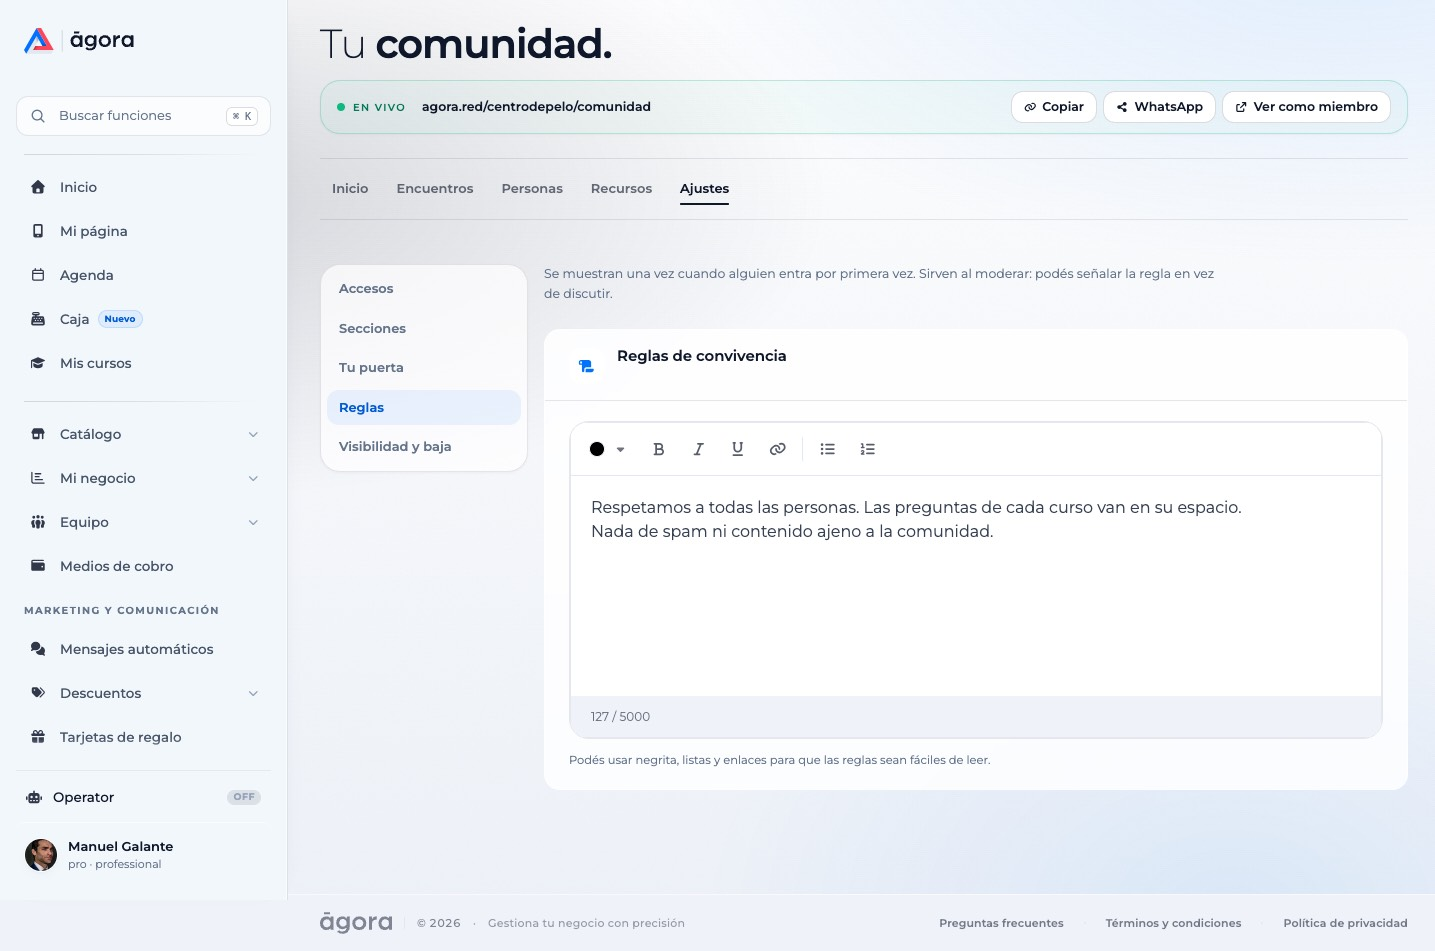
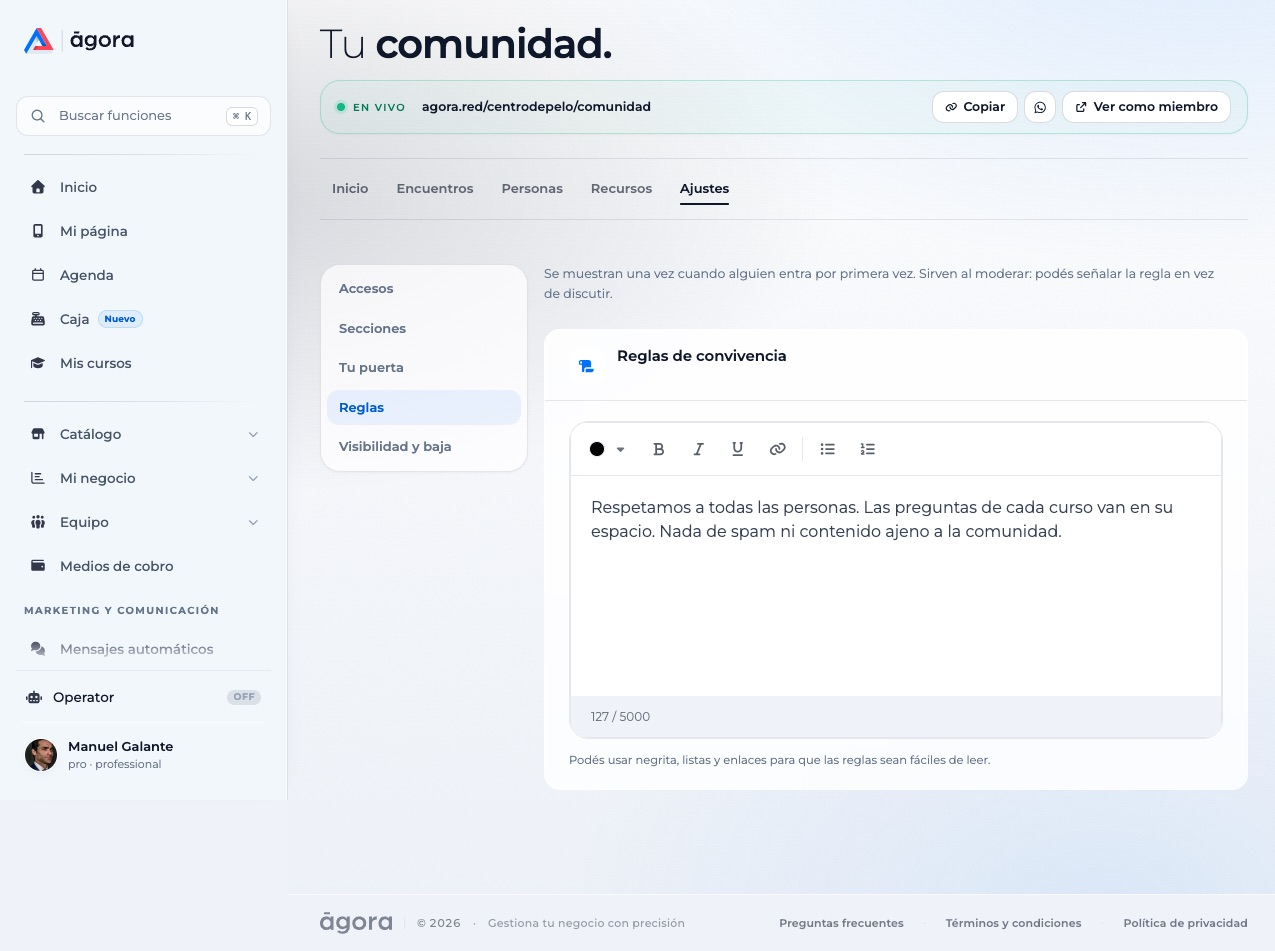
wiki: recorrido-comunidad — pasos 10-37 re-capturados íntegros tras el revamp del 18

diff --git a/recorrido-comunidad-2026-08/index.html b/recorrido-comunidad-2026-08/index.html
@@ -150,6 +150,7 @@ footer { padding: 30px 0 80px; color: var(--frost-muted); font-size: 12.5px; fon
       <span>14 · 08 → 18 · 08 · 2026</span>
       <span class="hot">miembro con el corredor · 18 · 08</span>
       <span class="hot">afinado + emails · 18 · 08</span>
+      <span class="hot">re-capturado íntegro tras el revamp · 18 · 08</span>
     </div>
   </section>
 
@@ -183,13 +184,13 @@ footer { padding: 30px 0 80px; color: var(--frost-muted); font-size: 12.5px; fon
 
 <section class="chapter"><p class="kicker">Capítulo 3 · En el panel</p><h2>El primer contenido</h2><p>El checklist guía las dos primeras piezas: una novedad de bienvenida con foto y una serie semanal de encuentros — con su primera excepción incluida.</p></section>
 
-<section class="step" id="paso-11"><div class="stephead"><span class="num">11</span><div><p class="kicker"><span class="lado panel">PANEL</span> Nueva publicación</p><h3>El composer, vacío</h3></div></div><div class="body"><p>«Escribir la primera» abre el composer a pantalla completa: <strong>Publicación o Anuncio</strong>, a quién le llega (toda tu comunidad o una sección), editor con formato, y adjuntos — hasta 4 imágenes y PDF.</p></div><figure><img src="assets/paso-11.jpg" alt=""><figcaption>Nueva publicación en cero: 0/5000 caracteres, 0/4 adjuntos, Publicar deshabilitado.</figcaption></figure></section>
+<section class="step" id="paso-11"><div class="stephead"><span class="num">11</span><div><p class="kicker"><span class="lado panel">PANEL</span> Nueva publicación</p><h3>El composer, vacío</h3></div></div><div class="body"><p>«Escribir la primera» abre el composer a pantalla completa. Los dos tipos ya no son botones mudos: <strong>tarjetas con la consecuencia escrita</strong> — Publicación (la conversación de todos los días) o Anuncio (destacado con chapa arriba del feed) — más a quién le llega, y un lienzo que integra editor, adjuntos y contador en una sola pieza.</p></div><figure><img src="assets/paso-11.jpg" alt=""><figcaption>Nueva publicación en cero: 0/5000 caracteres, 0/4 adjuntos, Publicar deshabilitado.</figcaption></figure></section>
 
 <section class="step" id="paso-12"><div class="stephead"><span class="num">12</span><div><p class="kicker"><span class="lado panel">PANEL</span> Nueva publicación</p><h3>La bienvenida, escrita y con foto</h3></div></div><div class="body"><p>Texto de bienvenida y una placa con la fórmula del día adjunta. El contador marca 282/5000, el adjunto 1/4, y <strong>Publicar se habilita</strong>.</p></div><figure><img src="assets/paso-12.jpg" alt=""><figcaption>El mismo composer, lleno: así se ve un post listo para salir.</figcaption></figure></section>
 
 <section class="step" id="paso-13"><div class="stephead"><span class="num">13</span><div><p class="kicker"><span class="lado panel">PANEL</span> Inicio</p><h3>Primera novedad publicada</h3></div></div><div class="body"><p>El post queda arriba con su placa — y el sistema toma nota: la métrica pasa a <strong>1 publicación</strong> y, con las primeras piezas hechas, la guía de primeros pasos se retira sola. Sobre la imagen aparece el marcador para guardarla en <strong>Recursos</strong>, y arriba del feed ya vive la tira del composer para la próxima novedad.</p></div><figure><img src="assets/paso-13.jpg" alt=""><figcaption>El Inicio después de publicar: la bienvenida con su fórmula, y el composer a un click.</figcaption></figure></section>
 
-<section class="step" id="paso-14"><div class="stephead"><span class="num">14</span><div><p class="kicker"><span class="lado panel">PANEL</span> Encuentros · Nuevo encuentro</p><h3>La serie semanal, en un form</h3></div></div><div class="body"><p>«Agendá el primer encuentro» abre el form: título, quién puede verlo, qué día, de 19:00 a 20:00, online con link de Meet y — la clave — <strong>se repite todas las semanas</strong>. Cupo opcional; hasta cuándo se repite, también.</p></div><figure><img src="assets/paso-14.jpg" alt=""><figcaption>Nuevo encuentro completo: «Consultas en vivo», jueves, semanal, con el link cargado.</figcaption></figure></section>
+<section class="step" id="paso-14"><div class="stephead"><span class="num">14</span><div><p class="kicker"><span class="lado panel">PANEL</span> Encuentros · Nuevo encuentro</p><h3>La serie semanal, a página completa</h3></div></div><div class="body"><p>«Agendá el primer encuentro» ya no abre un modal de 560px: toma el mismo lienzo del composer, con el form agrupado en <strong>Cuándo</strong> (día, horas, repetición), <strong>Dónde</strong> (online con link, o presencial) y descripción — y la clave a la vista: <strong>se repite todas las semanas</strong>.</p></div><figure><img src="assets/paso-14.jpg" alt=""><figcaption>Nuevo encuentro completo: «Consultas en vivo», jueves, semanal, con el link cargado.</figcaption></figure></section>
 
 <section class="step" id="paso-15"><div class="stephead"><span class="num">15</span><div><p class="kicker"><span class="lado panel">PANEL</span> Encuentros</p><h3>Una serie viva, no una lista de fechas</h3></div></div><div class="body"><p>Queda una sola tarjeta con el próximo (JUE 20 AGO), 19:00–20:00 hs, Online · Abrir link · Todas las semanas, y quién lo ve (Alumnos) — con las tres acciones separadas a propósito en el menú ⋮: <strong>Editar, Cancelar esta fecha, Cancelar la serie</strong> — porque cancelar una fecha y matar la serie son decisiones distintas. Al lado, el calendario del mes marca con un punto cada fecha real.</p></div><figure><img src="assets/paso-15.jpg" alt=""><figcaption>La serie recién creada: lista y calendario conviven — en desktop el toggle ya no hace falta.</figcaption></figure></section>
 
@@ -248,7 +249,7 @@ footer { padding: 30px 0 80px; color: var(--frost-muted); font-size: 12.5px; fon
 <section class="step" id="paso-36"><div class="stephead"><span class="num">36</span><div><p class="kicker"><span class="lado panel">PANEL</span> Mobile · 390 px</p><h3>El panel en el bolsillo</h3></div></div><div class="body"><p>El rediseño baja a mobile con decisiones propias, no con la versión desktop apretada: en el Inicio, <strong>lo accionable del rail sube arriba del feed</strong> — pendientes de hoy y próximo encuentro primero —; en Encuentros vuelve el <strong>conmutador Lista / Calendario</strong> (en pantalla chica conviven mal); y Personas cambia la tabla por la lista.</p></div><figure class="phone"><img src="assets/paso-36-a.jpg" alt=""><figcaption>Inicio: los pendientes de hoy y el próximo encuentro, antes del feed.</figcaption></figure>
 <figure class="phone"><img src="assets/paso-36-b.jpg" alt=""><figcaption>Encuentros: el conmutador que en desktop ya no hace falta.</figcaption></figure></section>
 
-<section class="step" id="paso-37"><div class="stephead"><span class="num">37</span><div><p class="kicker"><span class="lado panel">PANEL</span> Mobile · 390 px</p><h3>El calendario y la gente, en chico</h3></div></div><div class="body"><p>El calendario mensual ocupa el ancho completo con sus puntos por fecha, y <strong>Personas</strong> vuelve al formato lista — misma información que la tabla, apilada para el pulgar.</p></div><figure class="phone"><img src="assets/paso-37-a.jpg" alt=""><figcaption>La vista Calendario del conmutador.</figcaption></figure>
+<section class="step" id="paso-37"><div class="stephead"><span class="num">37</span><div><p class="kicker"><span class="lado panel">PANEL</span> Mobile · 390 px</p><h3>El calendario y la gente, en chico</h3></div></div><div class="body"><p>El calendario mensual ocupa el ancho completo con sus puntos por fecha, y <strong>Personas</strong> vuelve al formato lista — misma información que la tabla, apilada para el pulgar.</p></div><figure class="phone"><img src="assets/paso-37-a.jpg" alt=""><figcaption>Personas en formato lista, apilada para el pulgar.</figcaption></figure>
 <figure class="phone"><img src="assets/paso-37-b.jpg" alt=""><figcaption>Personas: acceso, última visita y estado, en lista.</figcaption></figure></section>
 
 <section class="chapter"><p class="kicker">Capítulo 8 · La tarde del 18</p><h2>El afinado</h2><p>Con el recorrido publicado, una pasada muy crítica — «hay muchas cosas que se desbordan» — encontró lo que las capturas de cuerpo entero no gritaban: desbordes en mobile, dos líneas donde iba una, espacio muerto y términos que chocaban. Tres rondas de fixes, deployadas y verificadas la misma tarde. Cada paso muestra el antes a la izquierda y el después a la derecha.</p></section>
@@ -292,7 +293,7 @@ footer { padding: 30px 0 80px; color: var(--frost-muted); font-size: 12.5px; fon
   </section>
 
   <footer>
-    Recorrido capturado en producción con capturas de páginas completas: la primera pasada el 14 de agosto de 2026, rehecho el 18 con el panel rediseñado — y esa misma tarde, re-capturado el lado del miembro con <strong>el corredor</strong> ya en vivo (pasos 23–33). Los pasos 1–9, 11 y 12 conservan la primera captura: esas pantallas no cambiaron. El contenido demo (posts, encuentros, sección Consultas, portada y la membresía de Julieta) se sembró para este documento y se limpió al terminar; Julieta salió por su propia baja del paso 33, y la comunidad quedó publicada y en su estado original. Los pasos 38–46 documentan el afinado del 18 por la tarde con pares antes/después tomados durante la auditoría, y los seis emails del capítulo 9 se renderizaron con los templates reales de producción y datos de muestra.
+    Recorrido capturado en producción con capturas de páginas completas: la primera pasada el 14 de agosto de 2026, rehecho el 18 con el panel rediseñado — y esa misma tarde, re-capturado el lado del miembro con <strong>el corredor</strong> ya en vivo (pasos 23–33). Los pasos 1–9, 11 y 12 conservan la primera captura: esas pantallas no cambiaron. El contenido demo (posts, encuentros, sección Consultas, portada y la membresía de Julieta) se sembró para este documento y se limpió al terminar; Julieta salió por su propia baja del paso 33, y la comunidad quedó publicada y en su estado original. Los pasos 38–46 documentan el afinado del 18 por la tarde con pares antes/después tomados durante la auditoría, y los seis emails del capítulo 9 se renderizaron con los templates reales de producción y datos de muestra. Esa misma noche, tras el revamp grande del feedback (composer con tarjetas, encuentro a página completa, puerta sin hero, íconos en lugar de emojis y el modal de conversación rediseñado), los pasos 10–37 se re-capturaron íntegros corriendo el recorrido completo otra vez — solo 1–9 y 23 conservan la captura original, porque esas pantallas no cambiaron. El contenido demo se limpió al terminar, como siempre: cero publicaciones, cero reportes, la serie cancelada, la sección archivada y Julieta afuera por su propia baja.
   </footer>
 </div>
 </body>
